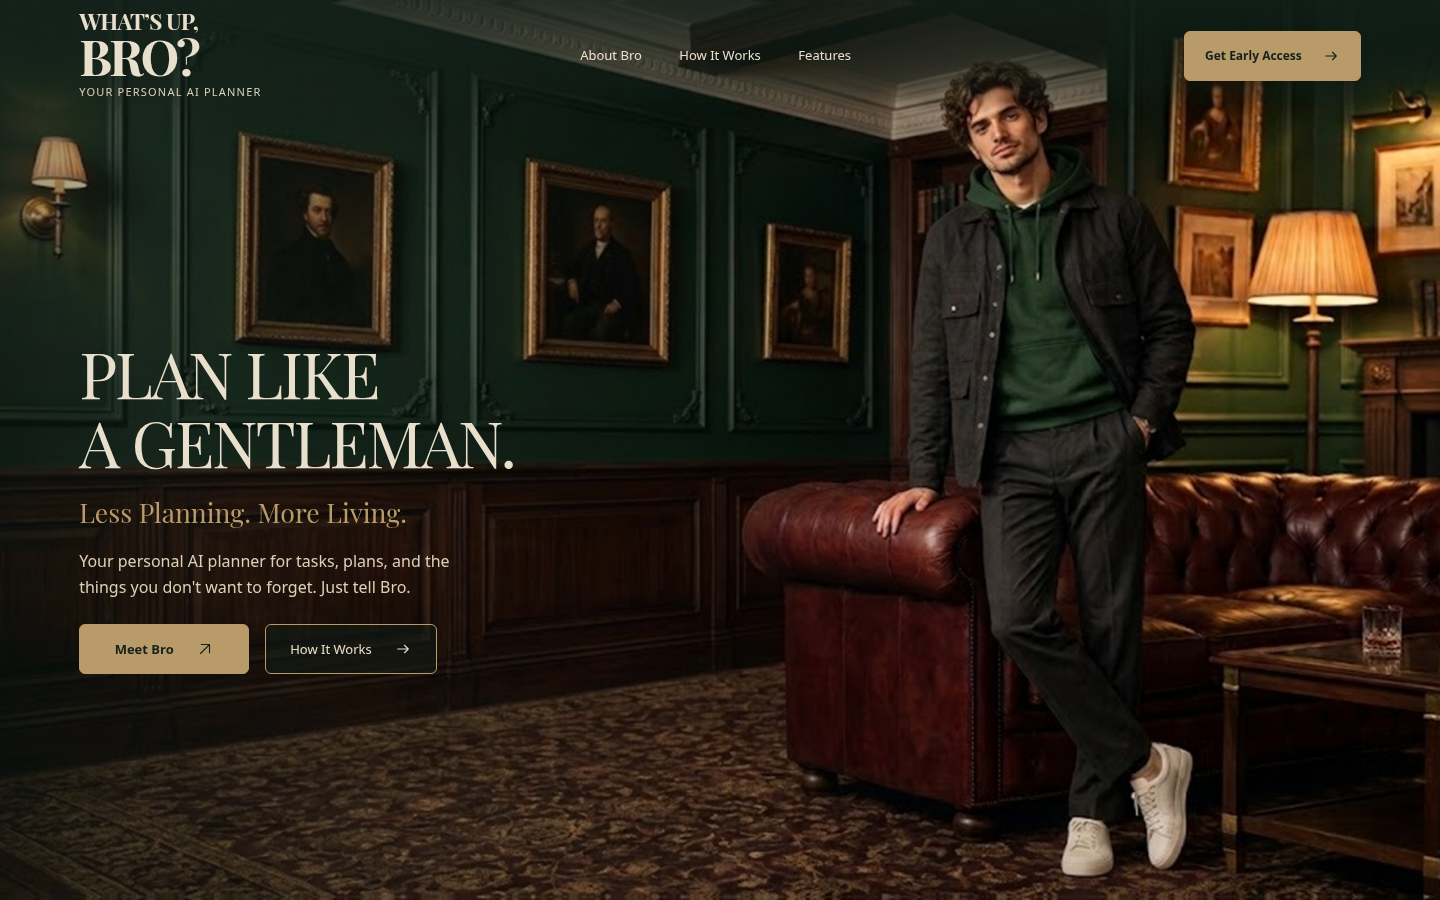
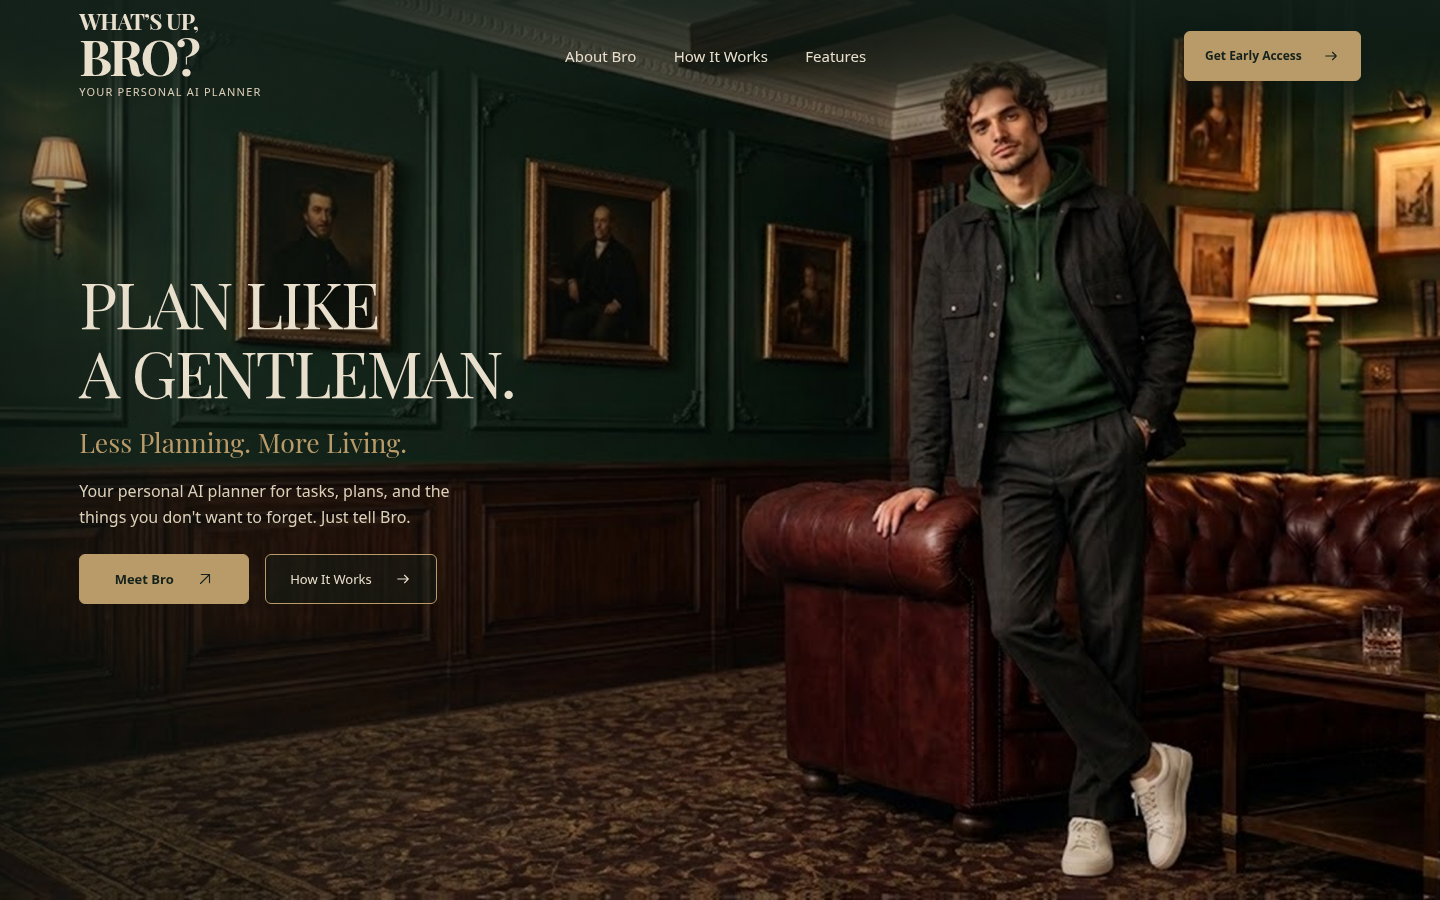
Lift Hero copy and improve navigation legibility

diff --git a/index.html b/index.html
@@ -69,7 +69,7 @@
     .brand-tagline { font-size: 11px; line-height: 1.3; letter-spacing: .11em; color: var(--warm-text); white-space: nowrap; }
     .header-controls { display: flex; flex: 1; justify-content: space-between; align-items: center; gap: clamp(28px, 3.5vw, 90px); }
     .main-nav { display: flex; margin-inline: auto; align-items: center; gap: clamp(24px, 2.6vw, 64px); }
-    .nav-action { padding: 12px 0; min-height: 44px; border: 0; background: transparent; color: var(--ivory); font-size: 13px; white-space: nowrap; }
+    .nav-action { padding: 12px 0; min-height: 44px; border: 0; background: transparent; color: var(--ivory); font-size: 15px; white-space: nowrap; }
     .button {
       display: inline-flex; align-items: center; justify-content: center; gap: 22px;
       min-height: var(--control-height); padding: 13px 24px;
@@ -118,6 +118,9 @@
       font-size: 14px;
     }
     .notice-close { display: grid; place-items: center; width: 44px; height: 44px; padding: 0; border: 0; background: transparent; color: var(--ivory); font-size: 24px; }
+    @media (min-width: 1101px) and (min-height: 651px) {
+      .hero { padding-top: calc(var(--header-height) + 6px); padding-bottom: 146px; }
+    }
     @media (min-width: 1101px) and (max-height: 650px) {
       .hero { min-height: 650px; padding-bottom: 60px; }
     }
